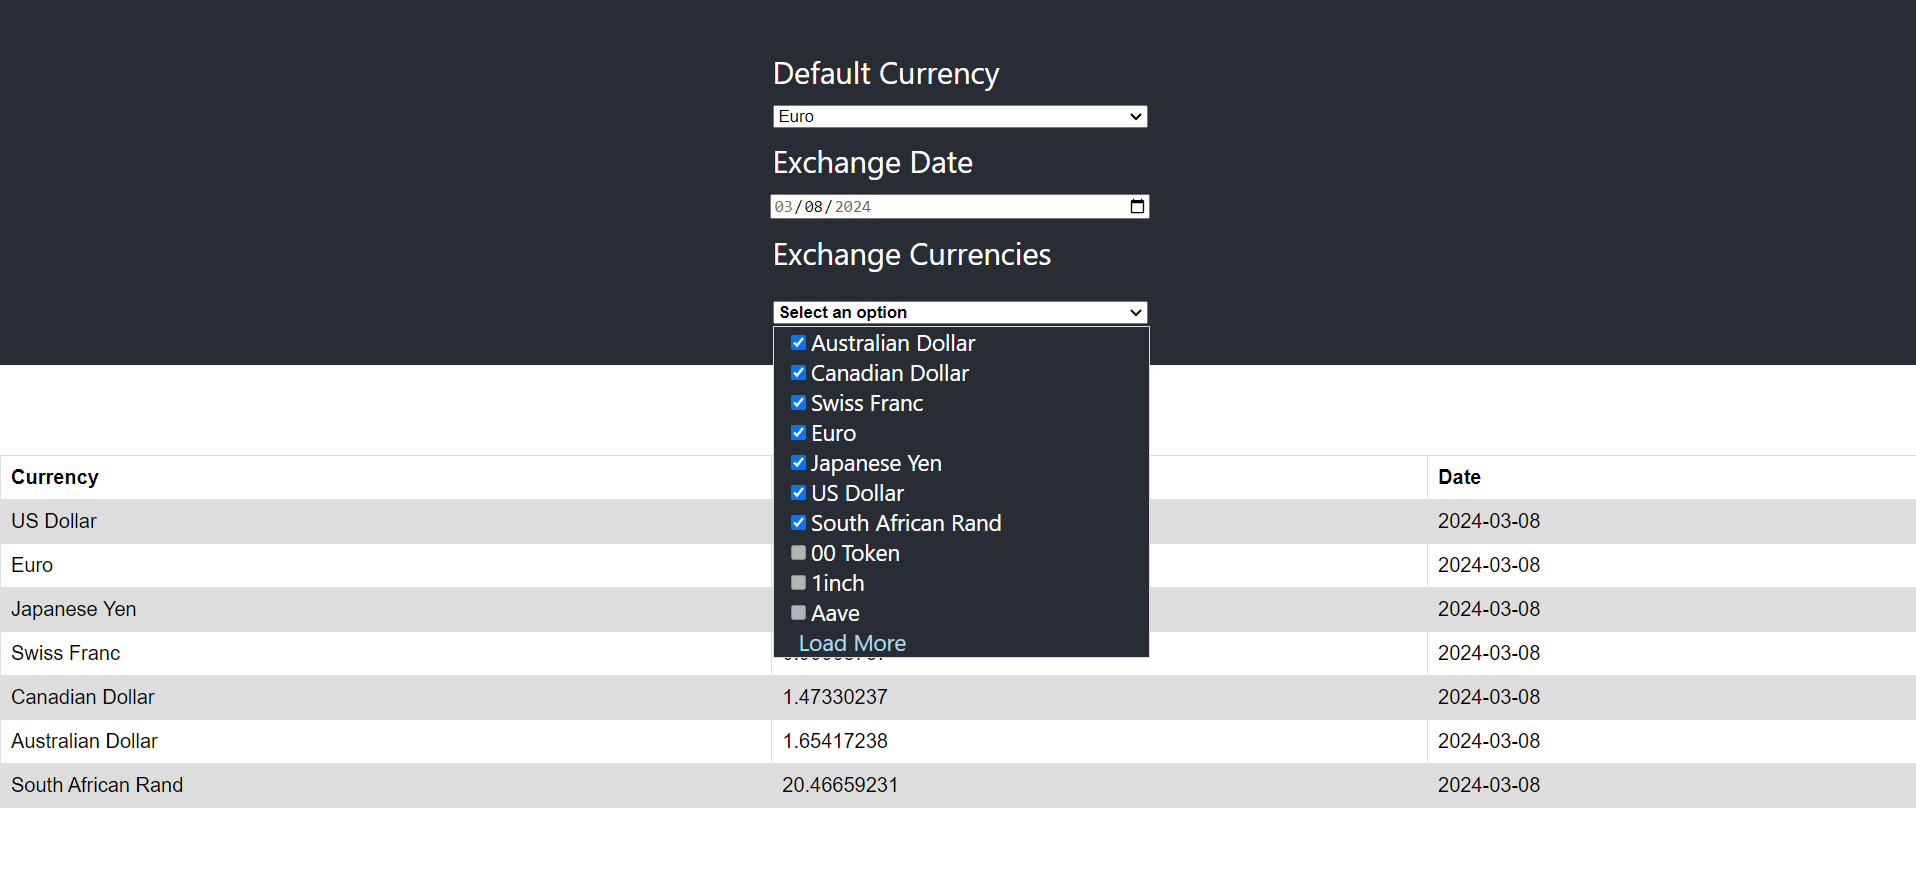
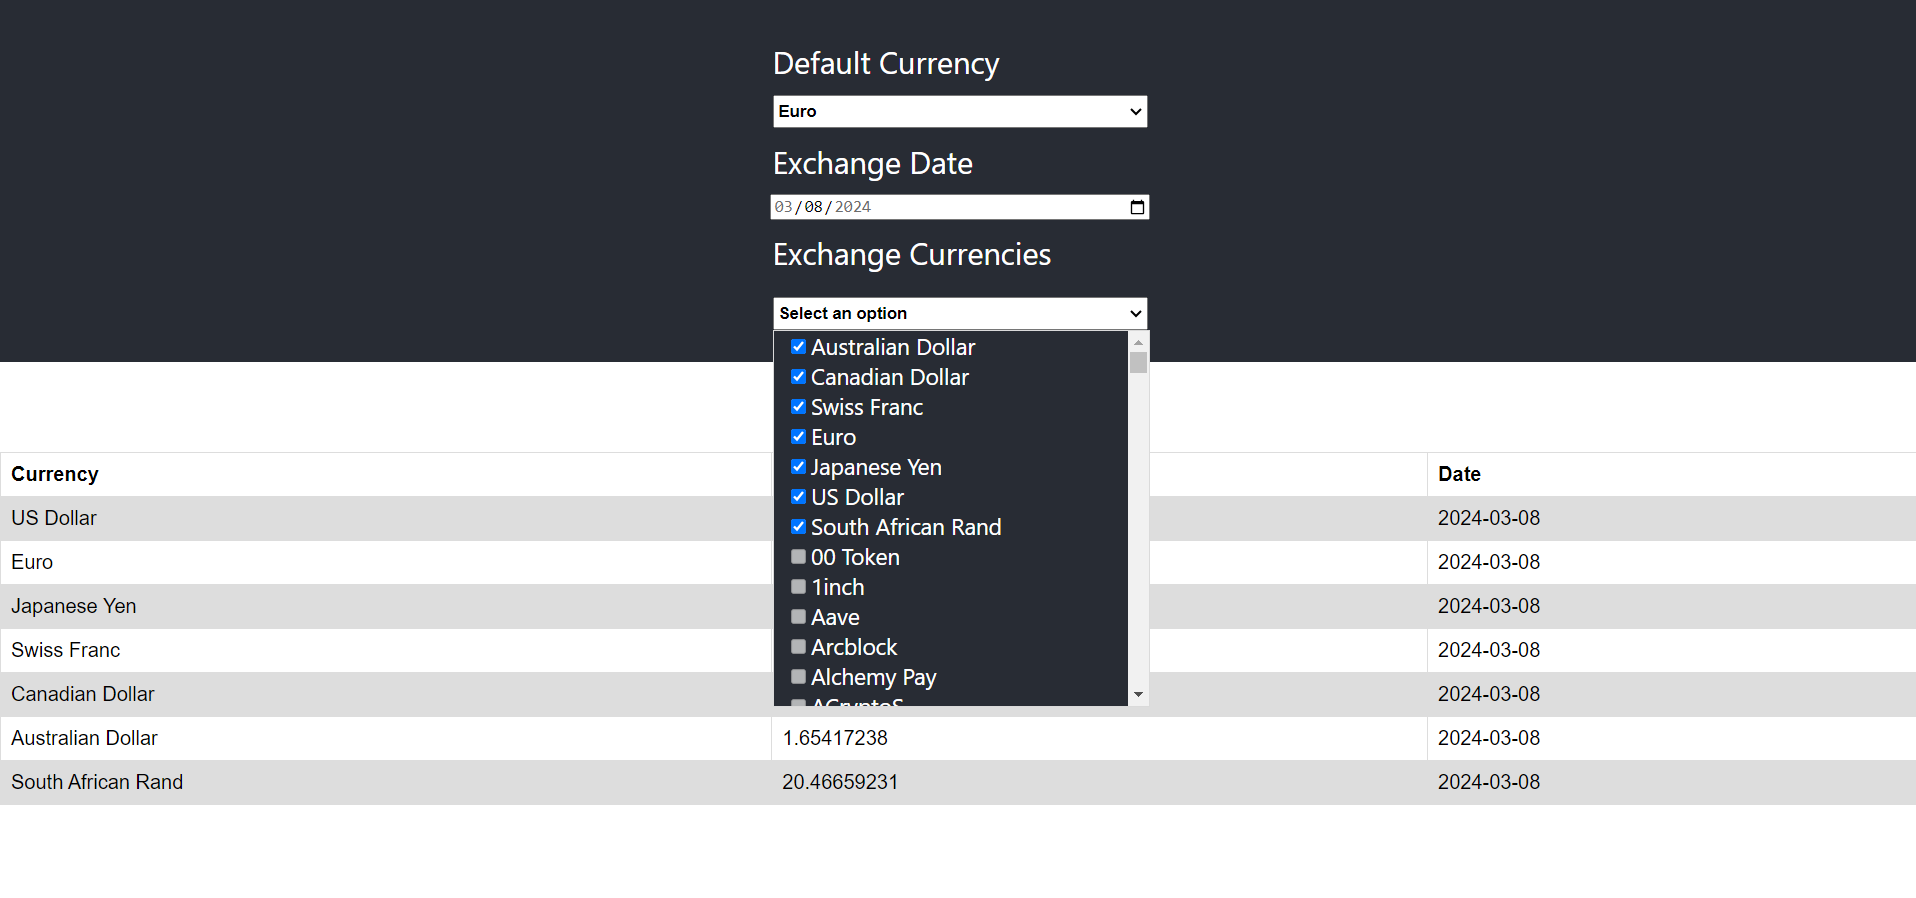
Updating images and removing Load More

Changed region(s): [[0.0, 0.2812, 1.0, 0.9062], [0.4003, 0.0625, 0.6159, 0.25]]

diff --git a/src/ExchangeCurrency/ExchangeCurrency.jsx b/src/ExchangeCurrency/ExchangeCurrency.jsx
@@ -1,11 +1,11 @@
-import React, { useState } from 'react';
+import React, { useRef, useState, useEffect } from 'react';
 import "./ExchangeCurrency.css";
+
 const ExchangeCurrency = ({allCurrencies, selectedCurrencies, setSelectedCurrencies}) => {
     const [expanded, setExpanded ] = useState(false);
-    const [currencyLength, setCurrencyLength] = useState(10); 
-    const showCheckboxes= ()=> {
-        setExpanded(!expanded);
-    }
+    const checkBoxRef = useRef(null);
+    const showCheckboxes= ()=> {setExpanded(!expanded)};
+
     const onChange = (currency) => {
         if(selectedCurrencies[currency]) {
             const newSelectedCurrencies = {...selectedCurrencies};
@@ -14,7 +14,6 @@ const ExchangeCurrency = ({allCurrencies, selectedCurrencies, setSelectedCurrenc
         } else {
             setSelectedCurrencies({...selectedCurrencies, [currency] : allCurrencies[currency]});
         }
-
     }
     const displayAllCurrencies = () => {
         const initialSelectedValues= [];
@@ -35,12 +34,22 @@ const ExchangeCurrency = ({allCurrencies, selectedCurrencies, setSelectedCurrenc
             if(selectedCurrencies[currency]) initialSelectedValues.push(value);
             else if(allCurrencies[currency]) otherValues.push(value);
         })
-        return [...initialSelectedValues, ...otherValues].slice(0,currencyLength);
+        return [...initialSelectedValues, ...otherValues];
     }
-
+    const handleOutsideClick = (e) => {
+        if (checkBoxRef.current && !checkBoxRef.current.contains(e.target)) {
+            setExpanded(false);
+        }
+    };
+    useEffect(() => {
+        document.addEventListener("mousedown", handleOutsideClick);
+        return () => {
+            document.removeEventListener("mousedown", handleOutsideClick);
+        };
+    });
     return (
-        <div className="multiselect">
-          <div className="selectBox" onClick={showCheckboxes} >
+        <div className="multiselect" ref={checkBoxRef}>
+          <div className="selectBox" onClick={showCheckboxes}>
             <select>
               <option>Select an option</option>
             </select>
@@ -49,9 +58,6 @@ const ExchangeCurrency = ({allCurrencies, selectedCurrencies, setSelectedCurrenc
             {
                 expanded && <div id="checkboxes">
                 {displayAllCurrencies()}
-                {currencyLength < Object.keys(allCurrencies).length && 
-                    <div className={"loader"} onClick={()=> setCurrencyLength(currencyLength+ 10)}>Load More</div>
-                }
             </div>
             }
         </div>

diff --git a/src/App.js b/src/App.js
@@ -1,15 +1,12 @@
 import React, { useEffect, useState } from 'react';
-import Network from './Network';
-import ExchangeCurrency from './ExchangeCurrency';
+import Network from './Network/Network';
+import ExchangeCurrency from './ExchangeCurrency/ExchangeCurrency';
+import { defaultCurrencies, dates } from "./Constant";
 import './App.css';
-const defaultCurrencies = ["usd", "eur", "jpy", "chf", "cad", "aud", "zar"];
+
 const App = ()=> {
-  const dates = {
-    initialDate: new Date().toISOString().split('T')[0],
-    maxDate: new Date().toISOString().split('T')[0],
-    minDate: new Date(new Date().getTime() - (5 * 24 * 60 * 60 * 1000)).toISOString().split('T')[0]
-  }
-  const [date, setDate] = useState(dates.initialDate);
+  const {initialDate, maxDate, minDate} = dates;
+  const [date, setDate] = useState(initialDate);
   const [currency, setCurrency] = useState("eur");
   const [allCurrencies, setAllCurrencies] = useState({});
   const [selectedCurrencies, setSelectedCurrencies] = useState({});
@@ -98,8 +95,8 @@ const App = ()=> {
         name="date" 
         value={date} 
         onChange={onDateChange}
-        max={dates.maxDate}
-        min={dates.minDate}
+        max={maxDate}
+        min={minDate}
         />
         <label for="exchangeCurrency">Exchange Currencies</label>
         <ExchangeCurrency 

diff --git a/src/Constant.js b/src/Constant.js
@@ -1,0 +1,6 @@
+export const defaultCurrencies = ["usd", "eur", "jpy", "chf", "cad", "aud", "zar"];
+export const dates = {
+    initialDate: new Date().toISOString().split('T')[0],
+    maxDate: new Date().toISOString().split('T')[0],
+    minDate: new Date(new Date().getTime() - (5 * 24 * 60 * 60 * 1000)).toISOString().split('T')[0]
+}; 

diff --git a/src/ExchangeCurrency/ExchangeCurrency.css b/src/ExchangeCurrency/ExchangeCurrency.css
@@ -8,7 +8,6 @@
   
   .selectBox select {
     width: 100%;
-    font-weight: bold;
   }
   
   .overSelect {
@@ -24,6 +23,8 @@
     border: 1px #dadada solid;
     position: absolute;
     background: #282c34;
+    overflow-y: scroll;
+    height: 300px;
     width: 300px;
   }
   

diff --git a/src/App.css b/src/App.css
@@ -28,6 +28,10 @@
   text-align: left;
   margin-top: 10px;
 }
+.App-header select {
+  font-weight: bold;
+  height: 27px;
+}
 
 .App-link {
   color: #61dafb;
